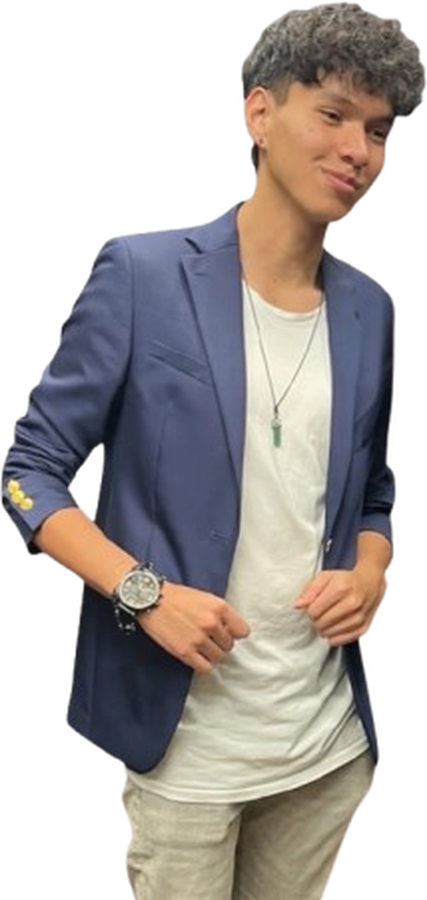
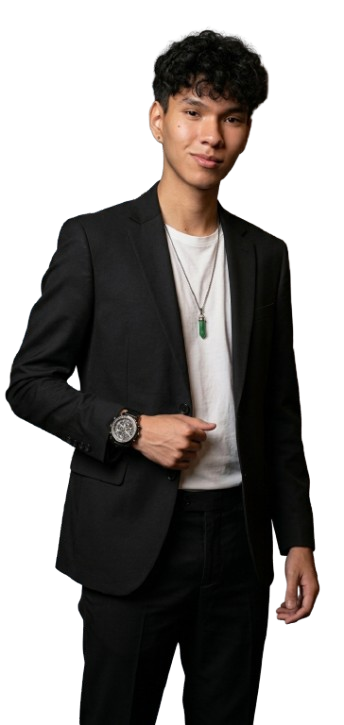
feat(profile): update profile photo

diff --git a/components/desktop/widgets/ProfileFigure.tsx b/components/desktop/widgets/ProfileFigure.tsx
@@ -43,8 +43,8 @@ export function ProfileFigure() {
       <Image
         src={PROFILE.photo}
         alt={t.profile.photoAlt}
-        width={427}
-        height={900}
+        width={344}
+        height={725}
         quality={100}
         priority
         sizes="(max-width: 640px) 60vw, 40vw"
